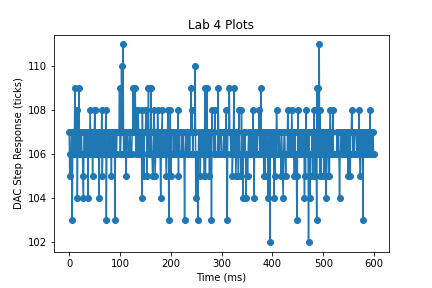
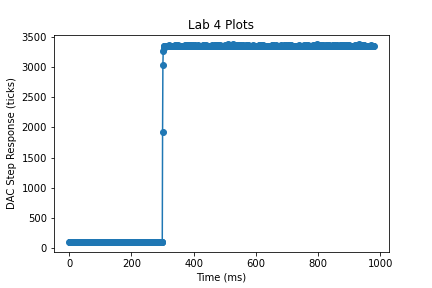
commit

diff --git a/Lab4/main.py b/Lab4/main.py
@@ -40,7 +40,7 @@ time.sleep(1)
 ##  @brief Sets up timer 1
 #   @details sets up timer as timer 1 on the nucleo using pyb.Timer and then determining the frequency
 tim1=pyb.Timer(1)
-tim1.init(freq=100)
+tim1.init(freq=3000)
 
 def interruptfunc(tim1):
     '''
@@ -52,12 +52,13 @@ def interruptfunc(tim1):
 
 
 ## @brief Variable to wait for input to allow us to run portreader file
-
-tim1.callback(interruptfunc)
 x=int(input())
-
+tim1.callback(interruptfunc)
+time.sleep_ms(100)
 pinC1.high()
-time.sleep_ms(5)
+#time.sleep(2)
+
+
 while x<=10:
     try: 
         print(q0.get())

diff --git a/Lab4/portreader_Lab4.py b/Lab4/portreader_Lab4.py
@@ -14,7 +14,7 @@ from matplotlib import pyplot as plt
 with serial.Serial ('COM26', 115200) as ser_port:
     
     ser_port.write (b'0\r\n')
-    time.sleep(3)
+    time.sleep(5)
     ser_port.write(b'\x03')
     data_results=[]
     while True :
@@ -66,6 +66,6 @@ plt.ylabel('DAC Step Response (ticks)')
     
 # Graph Title
 plt.title('Lab 4 Plots') 
-plt.savefig('RC_Circuit_Responce.png')
+plt.savefig('RC_Circuit_Responce2.png')
 plt.show()
 
